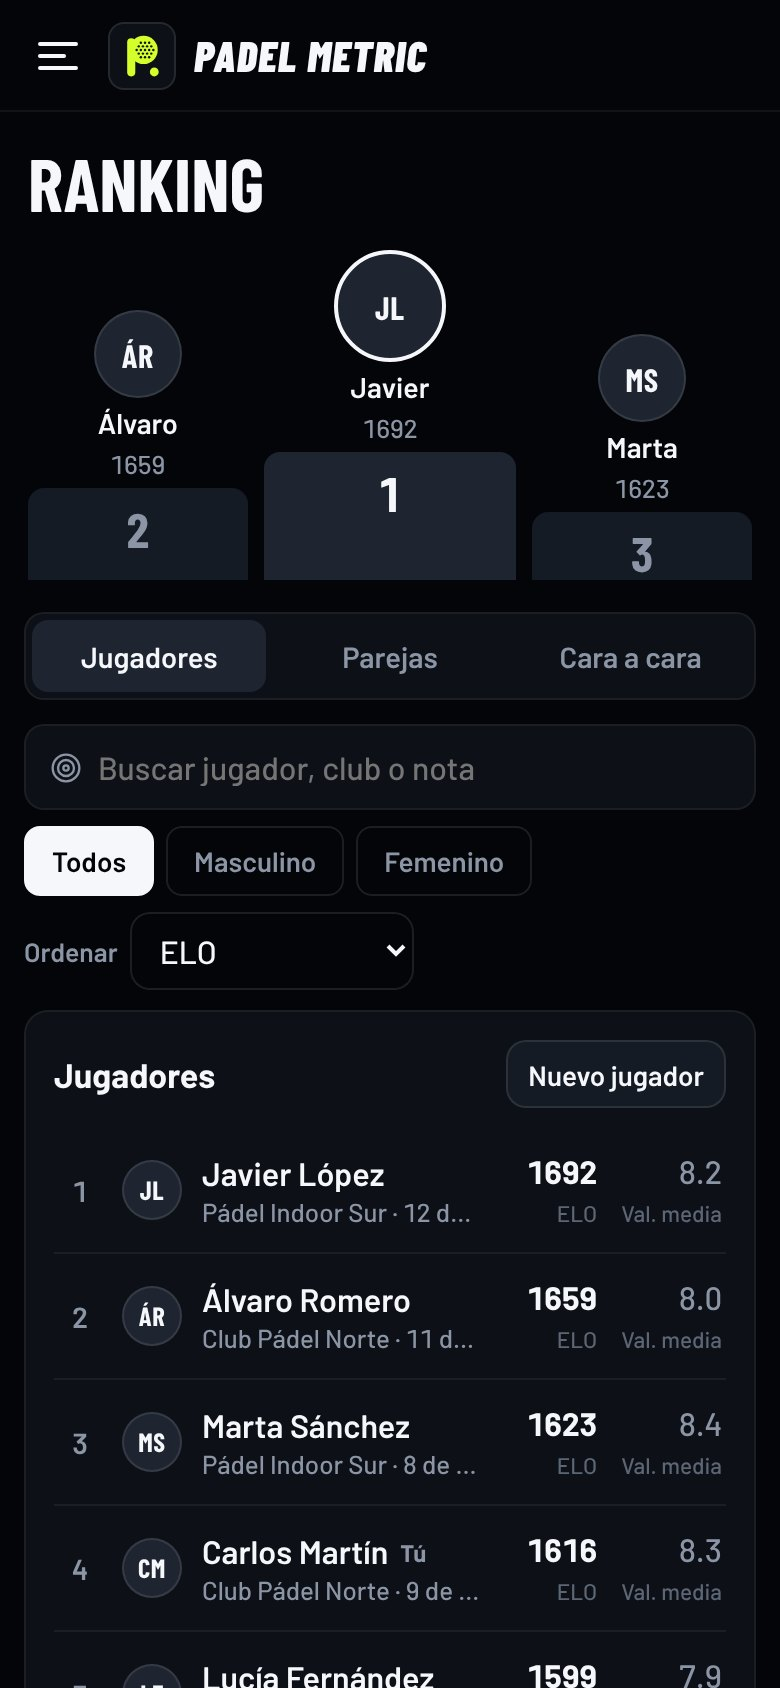
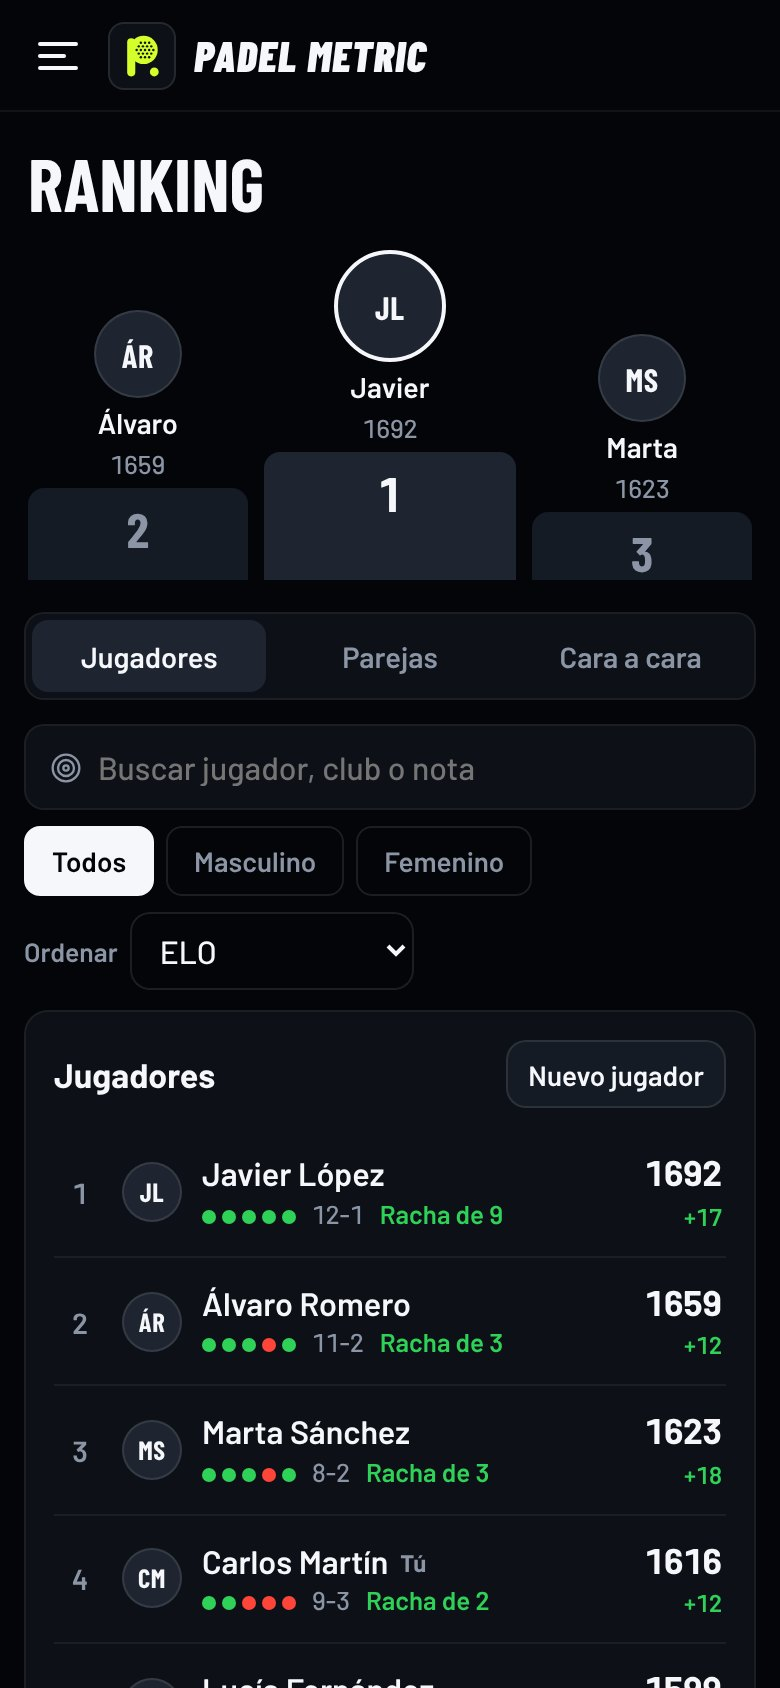
Versión 16: ranking más claro y póster del partido nuevo
- Ranking: sin el club en la fila; últimos cinco resultados, balance, racha actual y la cifra del orden
  elegido (ELO con su cambio en el último partido)
- Póster: pareja ganadora en grande, marcador sin solaparse, estadísticas con barras y mejor del partido
- Pruebas ampliadas y capturas nuevas

Claude-Session: https://claude.ai/code/session_0161SbS2xWAeZGnv9mQreLdC

diff --git a/js/poster.js b/js/poster.js
@@ -18,115 +18,94 @@ async function drawPosterCanvas(matchData) {
   canvas.width = 1080;
   canvas.height = 1350;
   const ctx = canvas.getContext('2d');
-  const W = canvas.width, H = canvas.height;
+  const W = canvas.width, H = canvas.height, X = 64, R = W - 64;
+  const m = matchData;
+  try { await Promise.all(['700 40px "Barlow Condensed"', 'italic 900 40px "Barlow Condensed"', '600 30px "Barlow"', '500 30px "Barlow"'].map(f => document.fonts.load(f))); } catch (e) {}
+  const C = { bg: '#030508', card: '#0D1117', line: 'rgba(255,255,255,0.08)', text: '#F5F7FA', muted: '#8B95A5', a: '#00F0FF', b: '#FF2E54', volt: '#D4FF2A' };
+  const font = (w, px, fam = 'Barlow') => `${w} ${px}px "${fam}", sans-serif`;
+  const sets = (m.sets || []).map((s, i) => ({ s, i })).filter(({ s }) => s[0] + s[1] > 0);
+  const winner = m.winnerPair === 0 || m.winnerPair === 1 ? m.winnerPair : null;
+  const dur = m.elapsedSec ? formatMatchDuration(m.elapsedSec) : '';
 
-  // Fondo plano (DESIGN.md)
-  ctx.fillStyle = '#030508';
-  ctx.fillRect(0, 0, W, H);
+  // Fondo plano y cabecera: logo, nombre y fecha
+  ctx.fillStyle = C.bg; ctx.fillRect(0, 0, W, H);
+  drawLogoMark(ctx, X, 56, 60, C.volt);
+  ctx.fillStyle = C.text; ctx.font = font('italic 900', 38, 'Barlow Condensed'); ctx.textAlign = 'left';
+  ctx.fillText('PADEL METRIC', X + 72, 100);
+  ctx.textAlign = 'right'; ctx.fillStyle = C.muted; ctx.font = font(500, 26);
+  ctx.fillText([m.date, dur].filter(Boolean).join(' · '), R, 100);
+  ctx.textAlign = 'left';
 
-  ctx.fillStyle = '#D4FF2A';
-  ctx.font = 'italic 900 68px "Barlow Condensed", sans-serif';
-  ctx.fillText('PADEL METRIC', 64, 105);
+  // Titular: la pareja ganadora por sus nombres
+  if (winner !== null) {
+    ctx.fillStyle = C.muted; ctx.font = font(600, 28);
+    ctx.fillText('Ganan', X, 178);
+    ctx.fillStyle = C.text; ctx.font = font(700, 96, 'Barlow Condensed');
+    ctx.fillText(fitText(ctx, livePairName(winner, m).toUpperCase(), R - X), X, 262);
+  } else {
+    ctx.fillStyle = C.text; ctx.font = font(700, 96, 'Barlow Condensed');
+    ctx.fillText('PARTIDO', X, 262);
+  }
 
-  ctx.fillStyle = '#94A3B8';
-  ctx.font = '700 28px "Barlow Condensed", sans-serif';
-  ctx.fillText(matchData.date || 'PARTIDO OFICIAL', 64, 150);
-
-  ctx.fillStyle = '#0D1117';
-  ctx.strokeStyle = 'rgba(255,255,255,0.06)';
-  ctx.lineWidth = 3;
-  ctx.beginPath();
-  ctx.roundRect(60, 190, W - 120, 290, 28);
-  ctx.fill();
-  ctx.stroke();
-
-  const p1Names = `${matchData.players[0].name} / ${matchData.players[1].name}`;
-  const p2Names = `${matchData.players[2].name} / ${matchData.players[3].name}`;
-
-  ctx.fillStyle = '#00F0FF';
-  ctx.font = '900 46px "Barlow Condensed", sans-serif';
-  ctx.fillText(p1Names.toUpperCase(), 96, 285);
-
-  ctx.fillStyle = '#FF2E54';
-  ctx.fillText(p2Names.toUpperCase(), 96, 405);
-
-  matchData.sets.forEach((s, idx) => {
-    const sx = 740 + idx * 95;
-    ctx.fillStyle = '#F8FAFC';
-    ctx.font = '700 52px "Barlow Condensed", sans-serif';
-    ctx.fillText(String(s[0]), sx, 285);
-    ctx.fillText(String(s[1]), sx, 405);
+  // Marcador: una fila por pareja con su cuadrado de color, los nombres y los sets
+  const boxY = 300, rowH = 104, colW = 92;
+  ctx.fillStyle = C.card; ctx.strokeStyle = C.line; ctx.lineWidth = 2;
+  ctx.beginPath(); ctx.roundRect(X - 8, boxY, R - X + 16, rowH * 2 + 24, 24); ctx.fill(); ctx.stroke();
+  const setsX0 = R - 24 - colW * sets.length;
+  [0, 1].forEach(k => {
+    const y = boxY + 12 + k * rowH, mid = y + rowH / 2;
+    const won = winner === k;
+    ctx.fillStyle = k ? C.b : C.a; ctx.fillRect(X + 16, mid - 9, 18, 18);
+    ctx.fillStyle = won ? C.text : '#AEB6C2'; ctx.font = font(won ? 700 : 600, 44, 'Barlow Condensed');
+    ctx.fillText(fitText(ctx, livePairName(k, m).toUpperCase(), setsX0 - (X + 52) - 20), X + 52, mid + 15);
+    sets.forEach(({ s }, c) => {
+      const cx = setsX0 + c * colW + colW / 2;
+      const wonSet = s[k] > s[1 - k];
+      ctx.textAlign = 'center'; ctx.fillStyle = wonSet ? C.text : '#6B7584';
+      ctx.font = font(700, 56, 'Barlow Condensed'); ctx.fillText(String(s[k]), cx, mid + 20);
+      ctx.textAlign = 'left';
+    });
+    if (k === 0) { ctx.fillStyle = C.line; ctx.fillRect(X + 16, y + rowH, R - X - 32, 2); }
   });
 
-  ctx.fillStyle = '#D4FF2A';
-  ctx.font = '700 42px "Barlow Condensed", sans-serif';
-  ctx.fillText('RENDIMIENTO INDIVIDUAL', 64, 560);
+  // Estadísticas como en el circuito profesional (barras pareja contra pareja)
+  let y = boxY + rowH * 2 + 88;
+  ctx.fillStyle = C.text; ctx.font = font(700, 40, 'Barlow Condensed');
+  ctx.fillText('ESTADÍSTICAS', X, y);
+  y += 16;
+  const rows = proStatsRows(m).filter(r => r[0] !== 'Racha más larga de puntos').slice(0, 7);
+  rows.forEach(([label, va, vb, a, b, low]) => {
+    const better = a === b ? 0 : (low ? a < b : a > b) ? 1 : 2;
+    ctx.font = font(better === 1 ? 700 : 500, 34, 'Barlow Condensed'); ctx.fillStyle = better === 1 ? C.text : '#AEB6C2';
+    ctx.textAlign = 'left'; ctx.fillText(String(va), X, y + 38);
+    ctx.font = font(better === 2 ? 700 : 500, 34, 'Barlow Condensed'); ctx.fillStyle = better === 2 ? C.text : '#AEB6C2';
+    ctx.textAlign = 'right'; ctx.fillText(String(vb), R, y + 38);
+    ctx.textAlign = 'center'; ctx.fillStyle = C.muted; ctx.font = font(500, 24); ctx.fillText(label, W / 2, y + 34);
+    ctx.textAlign = 'left';
+    const tot = Math.abs(a) + Math.abs(b) || 1, bw = R - X, wa = Math.max(4, (Math.abs(a) / tot) * bw - 3);
+    ctx.fillStyle = C.a; ctx.beginPath(); ctx.roundRect(X, y + 54, wa, 8, 4); ctx.fill();
+    ctx.fillStyle = C.b; ctx.beginPath(); ctx.roundRect(X + wa + 6, y + 54, bw - wa - 6, 8, 4); ctx.fill();
+    y += 76;
+  });
 
-  for (let idx = 0; idx < matchData.players.length; idx++) {
-    const p = matchData.players[idx];
-    const y = 600 + idx * 155;
-    ctx.fillStyle = '#12192A';
-    ctx.beginPath();
-    ctx.roundRect(60, y, W - 120, 132, 22);
-    ctx.fill();
-
-    // Avatar circular en el póster
-    const avX = 135, avY = y + 66, avR = 40;
-    const prof = (!p.isGeneric && dbProfiles[p.name]) ? dbProfiles[p.name] : null;
-    if (prof && prof.photo) {
-      await new Promise(resolve => {
-        const im = new Image();
-        im.onload = () => {
-          ctx.save();
-          ctx.beginPath();
-          ctx.arc(avX, avY, avR, 0, Math.PI * 2);
-          ctx.closePath();
-          ctx.clip();
-          ctx.drawImage(im, avX - avR, avY - avR, avR * 2, avR * 2);
-          ctx.restore();
-          resolve();
-        };
-        im.onerror = resolve;
-        im.src = prof.photo;
-      });
-    } else {
-      ctx.fillStyle = idx < 2 ? 'rgba(0,240,255,0.15)' : 'rgba(255,46,84,0.15)';
-      ctx.beginPath();
-      ctx.arc(avX, avY, avR, 0, Math.PI * 2);
-      ctx.fill();
-      ctx.fillStyle = idx < 2 ? '#00F0FF' : '#FF2E54';
-      ctx.font = '900 32px "Barlow Condensed", sans-serif';
-      ctx.textAlign = 'center';
-      ctx.fillText(getInitials(p.name), avX, avY + 11);
-      ctx.textAlign = 'left';
-    }
-
-    ctx.strokeStyle = idx < 2 ? '#00F0FF' : '#FF2E54';
-    ctx.lineWidth = 3;
-    ctx.beginPath();
-    ctx.arc(avX, avY, avR, 0, Math.PI * 2);
-    ctx.stroke();
-
-    // Solo el nombre del jugador, sin Drive / Revés
-    ctx.fillStyle = '#FFFFFF';
-    ctx.font = '900 44px "Barlow Condensed", sans-serif';
-    ctx.fillText(p.name.toUpperCase(), 196, y + 60);
-
-    const rating = calcPlayerRating(p).toFixed(1);
-    ctx.fillStyle = '#00E676';
-    ctx.font = '700 28px "Barlow Condensed", sans-serif';
-    ctx.fillText(`W: ${p.W}`, 196, y + 106);
-
-    ctx.fillStyle = '#FF2E54';
-    ctx.fillText(`ENF: ${p.ENF}`, 340, y + 106);
-
-    ctx.fillStyle = '#FFB800';
-    ctx.fillText(`EF: ${p.EF}`, 520, y + 106);
-
-    ctx.fillStyle = '#D4FF2A';
-    ctx.font = '700 44px "Barlow Condensed", sans-serif';
-    ctx.fillText(`VAL ${rating}`, 790, y + 84);
+  // Mejor del partido
+  const best = m.players.map((p, i) => ({ p, i, r: calcPlayerRating(p) })).sort((a, b) => b.r - a.r)[0];
+  if (best && !best.p.isGeneric) {
+    y += 16;
+    ctx.fillStyle = C.line; ctx.fillRect(X, y, R - X, 2);
+    y += 56;
+    ctx.fillStyle = C.muted; ctx.font = font(500, 26); ctx.fillText('Mejor del partido', X, y);
+    ctx.fillStyle = C.text; ctx.font = font(700, 44, 'Barlow Condensed');
+    ctx.fillText(liveSurname(best.p, m).toUpperCase(), X + 230, y + 4);
+    ctx.textAlign = 'right'; ctx.fillStyle = C.text; ctx.font = font(600, 26);
+    ctx.fillText(`${best.r.toFixed(1).replace('.', ',')} de valoración · ${best.p.W || 0} winners`, R, y);
+    ctx.textAlign = 'left';
   }
+
+  // Pie
+  ctx.textAlign = 'center'; ctx.fillStyle = C.muted; ctx.font = font(500, 22);
+  ctx.fillText('Hecho con Padel Metric · juancbr9.github.io/padel_metric_2026', W / 2, H - 40);
+  ctx.textAlign = 'left';
 
   document.getElementById('poster-preview').src = canvas.toDataURL('image/png');
 }

diff --git a/js/ranking.js b/js/ranking.js
@@ -68,6 +68,35 @@ function applyEloRatings(statsMap) {
   Object.values(statsMap).forEach(st => { st.elo = Math.round(st.elo); });
 }
 
+// Racha actual de cada jugador (victorias o derrotas seguidas en sus últimos partidos)
+function currentStreaks() {
+  const out = {};
+  matchHistory.forEach(m => {
+    if (!m || !m.players || (m.winnerPair !== 0 && m.winnerPair !== 1)) return;
+    m.players.forEach((p, idx) => {
+      if (p.isGeneric) return;
+      const won = m.winnerPair === (idx < 2 ? 0 : 1);
+      const st = out[p.name];
+      if (!st) out[p.name] = { won, n: 1, open: true };
+      else if (st.open && st.won === won) st.n++;
+      else st.open = false;
+    });
+  });
+  return out;
+}
+
+// Cifra de la derecha según el orden elegido: [valor, etiqueta, cambio en el último partido]
+function rankingMainValue(item) {
+  const per = (a) => (item.PJ ? a / item.PJ : 0);
+  if (rankingSortBy === 'winPct') return [`${Math.round(per(item.V) * 100)} %`, 'victorias', 0];
+  if (rankingSortBy === 'avgR') return [(item.PJ ? item.ratingSum / item.PJ : 6.5).toFixed(1).replace('.', ','), 'valoración', 0];
+  if (rankingSortBy === 'W') return [item.W, 'winners', 0];
+  if (rankingSortBy === 'lowENF') return [per(item.ENF).toFixed(1).replace('.', ','), 'errores/partido', 0];
+  if (rankingSortBy === 'bal') return [item.W - item.ENF, 'winners − errores', 0];
+  if (rankingSortBy === 'elo') return [item.elo, 'ELO', item.PJ ? Math.round(item.eloDelta || 0) : 0];
+  return [item.V, 'victorias', 0];
+}
+
 function formDotsHTML(form) {
   if (!form || !form.length) return '';
   return `<span class="form-dots">${form.map(r => `<i class="${r}"></i>`).join('')}</span>`;
@@ -131,10 +160,13 @@ function renderGlobalRanking() {
   if (list.length === 0) {
     wrap.innerHTML = `<div class="empty-note">No hay jugadores registrados con ese filtro</div>`;
   } else {
+    // Fila limpia: posición, foto, nombre, últimos 5 resultados, balance y racha; a la derecha la cifra por la que
+    // se ordena (ELO con su último cambio, por defecto). El club y la nota media van en la ficha del jugador.
+    const streaks = currentStreaks();
     wrap.innerHTML = `<div class="rk-card-list">${list.map((item, i) => {
-      const prof = ensureProfile(item.name);
-      const avgR = item.PJ ? (item.ratingSum / item.PJ).toFixed(1) : '6.5';
-      const winPct = item.PJ ? Math.round((item.V / item.PJ) * 100) : 0;
+      const lost = item.PJ - item.V;
+      const st = streaks[item.name];
+      const [val, lbl, delta] = rankingMainValue(item);
       return `
         <div class="rk-player-row ${item.name === myPlayerName ? 'is-me' : ''}" onclick="openPlayerProfile(${jsArg(item.name)})">
           <div class="rk-left">
@@ -142,18 +174,12 @@ function renderGlobalRanking() {
             ${renderAvatarHTML(item.name, '')}
             <div class="rk-info">
               <div class="rk-name">${escapeHtml(item.name)}${item.name === myPlayerName ? '<span class="me-tag">Tú</span>' : ''}</div>
-              <div class="rk-sub">${prof.club ? escapeHtml(prof.club) + ' · ' : ''}${item.PJ ? `${item.V} de ${item.PJ} ganados` : 'Sin partidos'}${formDotsHTML(item.form)}</div>
+              <div class="rk-sub">${item.PJ ? `${formDotsHTML(item.form)}<span class="rk-rec">${item.V}-${lost}</span>${st && st.n >= 2 ? `<span class="rk-streak ${st.won ? 'w' : 'l'}">${st.won ? `Racha de ${st.n}` : `${st.n} sin ganar`}</span>` : ''}` : 'Sin partidos'}</div>
             </div>
           </div>
-          <div class="rk-right">
-            <div class="rk-stat-box">
-              <span class="rk-stat-val">${item.elo}</span>
-              <span class="rk-stat-lbl">ELO</span>
-            </div>
-            <div class="rk-stat-box">
-              <span class="rk-stat-val">${avgR}</span>
-              <span class="rk-stat-lbl">Val. media</span>
-            </div>
+          <div class="rk-main">
+            <strong>${val}</strong>
+            <small class="${delta > 0 ? 'up' : delta < 0 ? 'down' : ''}">${delta ? `${delta > 0 ? '+' : '−'}${Math.abs(delta)}` : lbl}</small>
           </div>
         </div>
       `;

diff --git a/css/styles.css b/css/styles.css
@@ -844,6 +844,14 @@ body.light-mode .shot-court line { stroke: #475569; } body.light-mode .shot-cour
 .rk-name { font-size: 1rem; font-weight: 600; white-space: nowrap; overflow: hidden; text-overflow: ellipsis; line-height: 1.2; }
 .rk-sub { font-size: 0.8rem; color: var(--text-secondary); font-weight: 500; white-space: nowrap; overflow: hidden; text-overflow: ellipsis; margin-top: 2px; }
 .rk-right { display: flex; align-items: center; gap: 12px; flex-shrink: 0; }
+.rk-sub .form-dots { margin-left: 0; margin-right: 8px; }
+.rk-rec { font-variant-numeric: tabular-nums; color: var(--text-secondary); }
+.rk-streak { margin-left: 8px; font-weight: 600; }
+.rk-streak.w { color: var(--emerald); } .rk-streak.l { color: var(--danger); }
+.rk-main { text-align: right; flex-shrink: 0; min-width: 56px; }
+.rk-main strong { display: block; font-family: var(--font-num); font-size: 1.1rem; font-weight: 700; color: var(--text-primary); font-variant-numeric: tabular-nums; line-height: 1.15; }
+.rk-main small { font-size: 0.75rem; font-weight: 600; color: var(--text-tertiary); font-variant-numeric: tabular-nums; }
+.rk-main small.up { color: var(--emerald); } .rk-main small.down { color: var(--danger); }
 .rk-stat-box { text-align: right; min-width: 48px; }
 .rk-stat-val { font-family: var(--font-num); font-size: 1rem; font-weight: 700; color: var(--text-primary); display: block; }
 .rk-stat-box + .rk-stat-box .rk-stat-val { font-weight: 500; color: var(--text-secondary); }

diff --git a/js/app.js b/js/app.js
@@ -311,11 +311,10 @@ function openAboutSheet() {
 }
 
 // Novedades: se muestran una vez tras actualizar (no a quien abre la app por primera vez)
-const APP_VERSION = 15;
+const APP_VERSION = 16;
 const APP_NEWS = [
-  ['Resumen del partido', 'Al terminar un partido, o desde el historial, verás sus estadísticas como en el circuito profesional (saque, resto, bolas de break, winners y errores) y podrás pedir la crónica del partido escrita con IA: 3 al mes, lista para compartir.'],
-  ['Cada jugador, por su nombre', 'El marcador, la pista y las cartas muestran el nombre de pila, como se hace en el pádel amateur. Si dos se llaman igual, se añade la inicial del apellido.'],
-  ['Datos de ejemplo nuevos', '30 jugadores inventados con partidos, torneos y americanos más realistas.']
+  ['Ranking más claro', 'Cada fila muestra los últimos cinco resultados, el balance de victorias y derrotas, la racha actual y el cambio de ELO del último partido. El club y la nota media están en la ficha de cada jugador.'],
+  ['Póster del partido nuevo', 'La pareja ganadora en grande, el marcador sin solaparse, las estadísticas como en el circuito profesional y el mejor del partido.']
 ];
 
 function openNewsSheet() {

diff --git a/sw.js b/sw.js
@@ -3,7 +3,7 @@
 // (poca cobertura en la pista) se abre la copia guardada al momento y la red termina de actualizarla por detrás.
 // Sin conexión, la copia guardada.
 // Al añadir archivos nuevos a la app, inclúyelos en APP_FILES y sube el número de versión.
-const CACHE = 'padel-metric-v21';
+const CACHE = 'padel-metric-v22';
 const NET_TIMEOUT_MS = 3000;
 const APP_FILES = [
   './',

diff --git a/index.html b/index.html
@@ -164,7 +164,7 @@
     </div>
     <div class="menu-footer">
       <svg class="menu-footer-logo"><use href="#logo-mark"/></svg>
-      <span id="app-version-label">Padel Metric · v15</span>
+      <span id="app-version-label">Padel Metric · v16</span>
     </div>
   </nav>
 </div>

diff --git a/CLAUDE.md b/CLAUDE.md
@@ -30,7 +30,7 @@ El dueño del proyecto no es programador: explica los cambios en español y en l
   - `match/voice.js`: narrador de voz del marcador.
   - `analysis.js`: cálculos a partir del registro punto a punto (zonas, puntos clave, saque, entrenador, logros).
   - `heatmap.js`: dibujo SVG del mapa de calor.
-  - `stats.js` (incluye el panel de probabilidad de victoria y el momento clave en Puntos clave), `poster.js`, `ranking.js` (incluye ELO, podio y la ficha con la pestaña Carta), `history.js` (historial con tarjetas por mes, búsqueda y filtros `historyFilter`, acciones `openHistoryActions`; copias de seguridad). El ranking tiene pestañas (`setRankingTab`: jugadores, parejas y cara a cara visual con `renderH2H`).
+  - `stats.js` (incluye el panel de probabilidad de victoria y el momento clave en Puntos clave), `poster.js`, `ranking.js` (incluye ELO, podio y la ficha con la pestaña Carta), `history.js` (historial con tarjetas por mes, búsqueda y filtros `historyFilter`, acciones `openHistoryActions`; copias de seguridad). La fila del ranking de jugadores muestra nombre, últimos cinco resultados (`formDotsHTML`), balance, racha actual (`currentStreaks`: "Racha de N" o "N sin ganar") y a la derecha la cifra del orden elegido (`rankingMainValue`; con ELO, su cambio en el último partido); el club y la nota media van en la ficha. El póster del partido (`drawPosterCanvas` en `poster.js`, 1080 × 1350) muestra la pareja ganadora, el marcador por sets, las estadísticas de `proStatsRows` con barras y el mejor del partido. El ranking tiene pestañas (`setRankingTab`: jugadores, parejas y cara a cara visual con `renderH2H`).
   - `card.js`: carta de jugador con forma de pista (`computePlayerCard` con `rank`, `playerCardHTML(card, { big, mini, profile })`, `CARD_COURTS` y `cardCourtOf` para el color de pista de cada jugador, `setCardColor`, inclinación suave con `initCardTilt`, imagen 1080 × 1350 con `sharePlayerCard`) y perfil propio (`myPlayerName`, `pm_yo_v1`): `openChooseMeSheet()` ("¿Quién eres?", desde el inicio y el menú), `chooseMeBannerHTML()` y la marca "Tú" del ranking. La ficha guarda en el perfil `cardColor` y `racket` (pala).
   - `wrapped.js`: historias a pantalla completa (`openStories`; toque a la derecha/izquierda, mantener para pausar, deslizar hacia abajo para cerrar, flechas del teclado, pausa si la app pasa a segundo plano, duración por pantalla con `ms`). Resumen de temporada `openWrapped(nombre, temporada)`: `seasonOptionsOf` da cada año con partidos (por la fecha de `m.id`) y "Todo"; `defaultSeasonKey` elige el año más reciente con 3 o más partidos. `computeWrapped` calcula la temporada (ELO exacto de esa temporada a partir de `eloHistory`, mes a mes, mejor partido por valoración, títulos y podios de torneos y americanos de ese año, comparación con el año anterior). Habla de "tu" en el perfil propio y de "su" en los demás. `shareWrappedImage` crea la imagen vertical 1080 × 1920 (`openShareImage(..., { height: 1920 })`; el lienzo vuelve a 1350 en las demás imágenes). También la bienvenida la primera vez (`maybeShowWelcome`, `pm_bienvenida_v1`).
   - `events/common.js`: utilidades de competición (selector de jugadores, modal de resultados, `escapeHtml`/`jsArg` están en `core/utils.js`).
